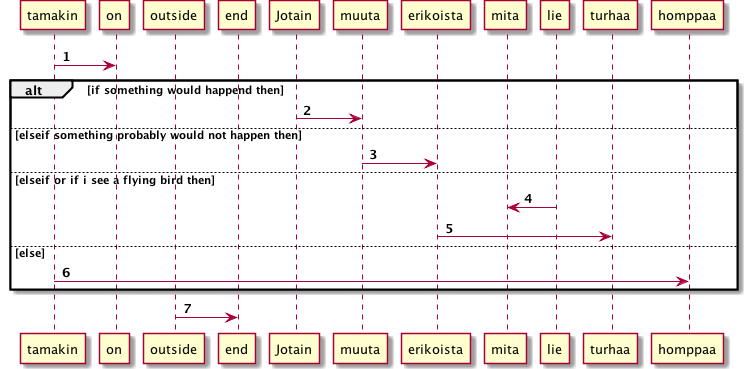
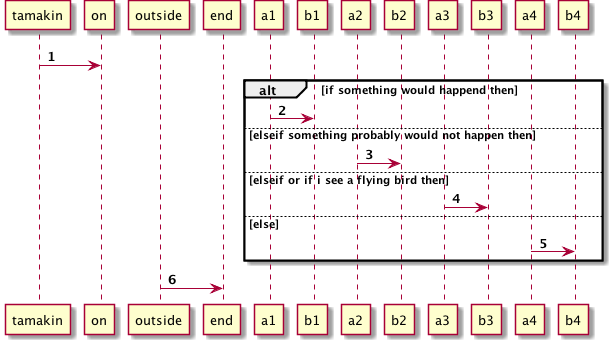
First draft of actually quite working if/elseif/else/endif construct with digraph/dotty reference implementation

Changed region(s): [[0.0, 0.0, 1.0, 1.0]]

diff --git a/generators/digraph.js b/generators/digraph.js
@@ -96,10 +96,44 @@ function digraph(yy) {
 		}
 	}(r.OBJECTS);
 
+	function getFirstLink(grp) {
+		// yy.result("FIRST NODE"+JSON.stringify(grp));
+		for ( var i in yy.LINKS) {
+			var l = yy.LINKS[i];
+			for ( var j in grp.OBJECTS) {
+				var n = grp.OBJECTS[j];
+				if (n == l.left) {
+					// yy.result("ReturnF "+n);
+					return n;
+				}
+			}
+		}
+		return undefined;
+	}
+	function getLastLink(grp) {
+		var nod = undefined;
+		// yy.result("LAST NODE"+JSON.stringify(grp));
+		for ( var i in yy.LINKS) {
+			var l = yy.LINKS[i];
+			for ( var j in grp.OBJECTS) {
+				var n = grp.OBJECTS[j];
+				if (n == l.left)
+					nod = n;
+				if (n == l.right)
+					nod = n;
+			}
+		}
+		// yy.result("ReturnL "+nod);
+		return nod;
+	}
+	var lastexit = undefined;
+	var lastendif = undefined;
 	var traverseObjects = function traverseObjects(r) {
 		for ( var i in r.OBJECTS) {
 			var o = r.OBJECTS[i];
 			if (o instanceof Group) {
+				var cond = getAttr(o, 'conditional');
+			//	if (cond=="endif")continue;
 				// Group name,OBJECTS,get/setEqual,toString
 				var processAGroup = function(o) {
 					debug(JSON.stringify(o));
@@ -117,7 +151,46 @@ function digraph(yy) {
 					traverseObjects(o);
 					depth--;
 					depth--;
-					yy.result(indent("}//end of " + o.getName()));
+					yy.result(indent("}//end of " + o.getName()+" "+cond));
+					if (cond) {
+						yy.result(indent("//COND " + o.getName()+" "+cond));
+						if (cond == "endif") {
+							//never reached
+							var exitlink=getAttr(o,'exitlink');
+							if (exitlink){
+								yy.result(indent(lastexit + "->" + exitlink+"[color=red];"));
+								yy.result(indent(lastendif + "->" + exitlink+";"));								
+							}
+						} else {
+							var sn = "entry" + getAttr(o, 'exitnode');
+							if (!lastendif){
+								lastendif = "endif" + getAttr(o, 'exitnode');
+								yy.result(indent(lastendif
+										+ "[shape=circle,label=\"\",width=0.01,height=0.01];"));
+							}
+							//TODO:else does not need diamond
+							yy.result(indent(sn + "[shape=diamond,label=\""
+									+ o.getLabel() + "\"];"));
+							// FIRST node of group and LAST node in group..
+							var fn = getFirstLink(o);
+							var ln = getLastLink(o);
+							// decision node
+							var en = "exit" + getAttr(o, 'exitnode');
+							
+							if (lastexit) {
+								yy.result(indent(lastexit + "->" + sn
+										+ "[label=\"NO\",color=red];"));
+								lastexit = undefined;
+							}
+							// YES LINK to first node of the group
+							yy.result(indent(sn + "->" + fn.getName()
+									+ "[label=\"YES\",color=green,lhead=cluster_"
+									+ o.getName() + "];"));
+							yy.result(indent(ln.getName() + "->" + lastendif
+									+ "[label=\"\"];"));
+							lastexit = sn;
+						}
+					}
 				}(o);
 			} else if (o instanceof Node) {
 				processANode(o);

diff --git a/model/model.js b/model/model.js
@@ -98,7 +98,7 @@ function getList(yy, LHS, RHS,rhsLinkLabel) {
  * node a1 will be dotted instead of being dashed
  */
 function getNode(yy, name,style) {
-    debug(" getNode " + name);
+    function cc(yy,name,style){
     if (name instanceof Node) {
         if (style) name.setStyle(style);
         return name;
@@ -122,7 +122,9 @@ function getNode(yy, name,style) {
         }
         return undefined;
     }(getGraphRoot(yy), name);
-    if (search != undefined) return search;
+    if (search != undefined) {
+    	return search;
+    }
     debug(" Create new node");
     var n = new Node(name, getGraphRoot(yy).getCurrentShape());
     if (style) n.setStyle(style);
@@ -134,6 +136,15 @@ function getNode(yy, name,style) {
     	n.setTextColor(color);
     });
     return pushObject(yy, n);
+    }
+    var node=cc(yy,name,style);
+    debug(" getNode gotNode " + node);
+    if (yy.collectNextNode){
+        debug("Collect next node");
+      	setAttr(yy.collectNextNode,'exitlink',name);
+       	yy.collectNextNode=undefined
+    }
+    return node;
 }
 /**
  * Get default attribute nodecolor,linkcolor,groupcolor and bubble upwards if
